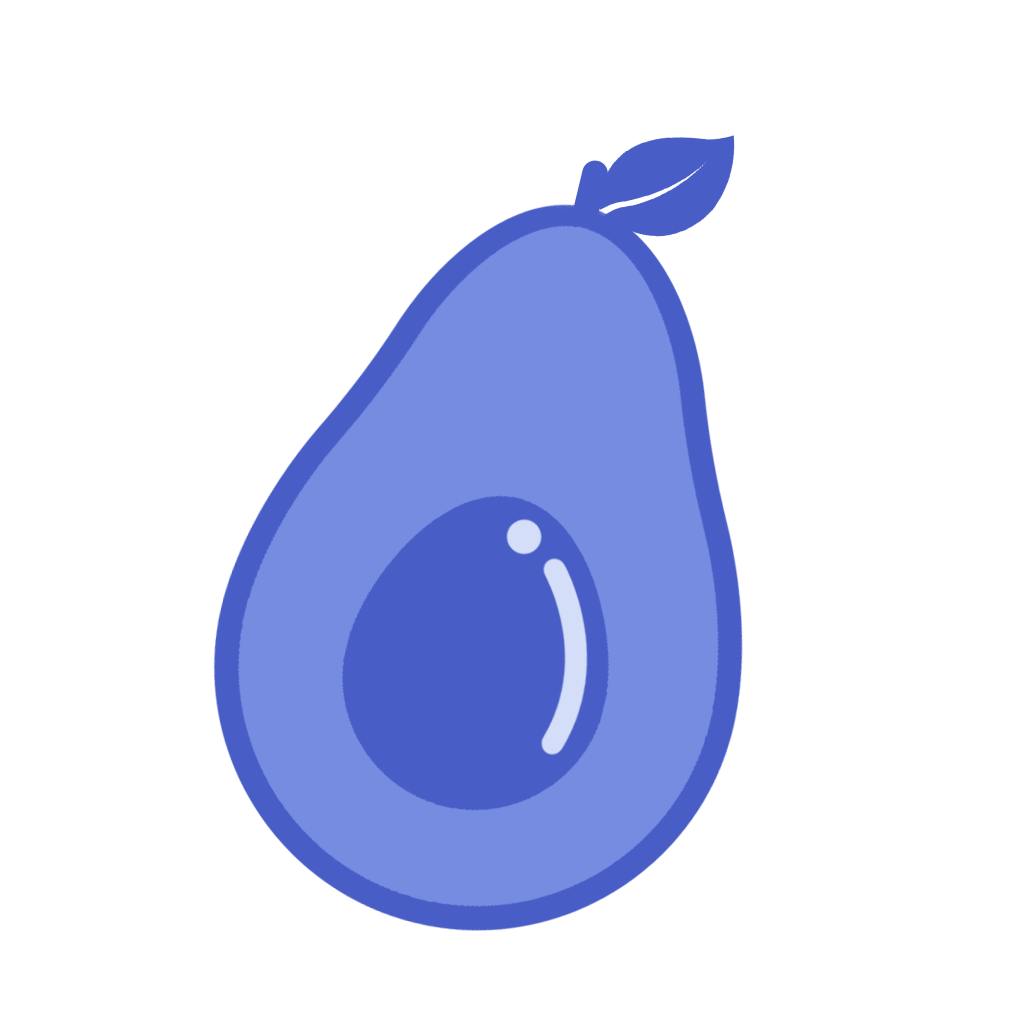
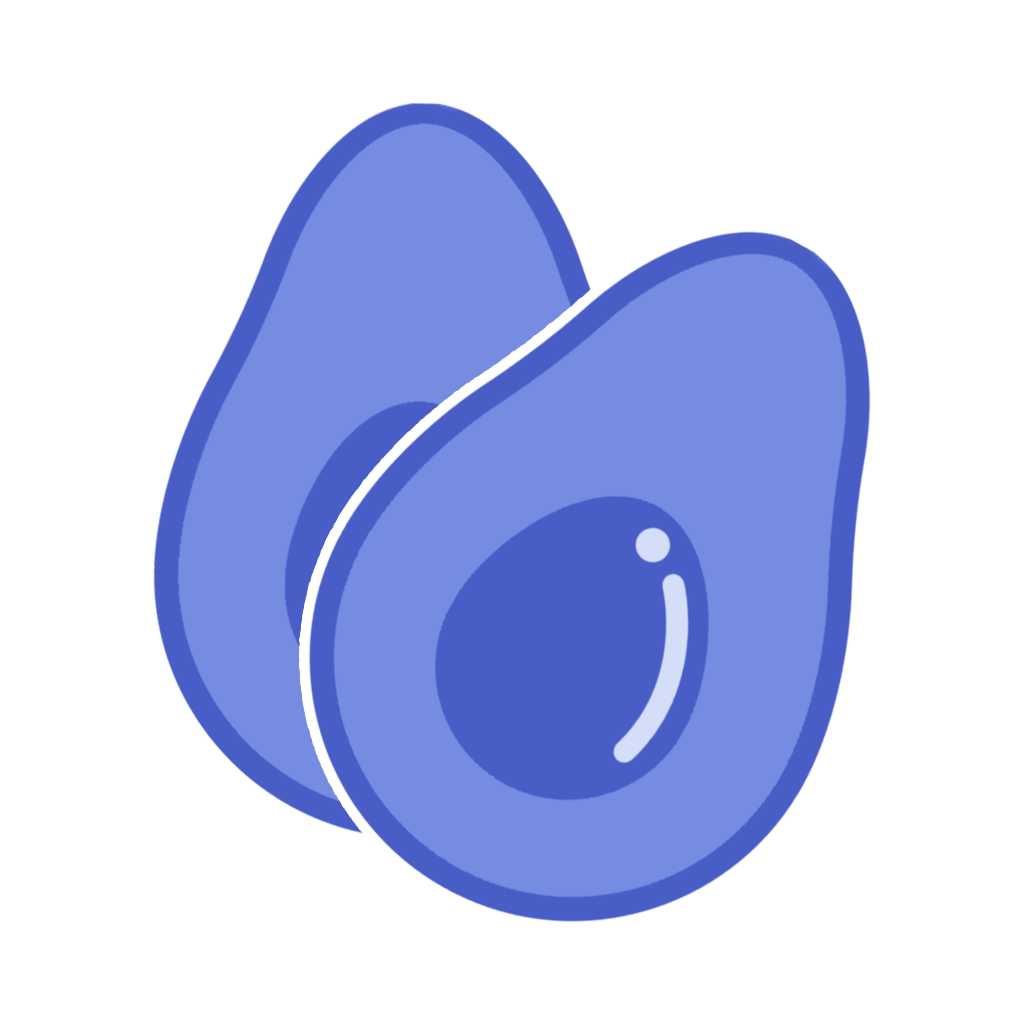
refactor: create event from home screen, new images

diff --git a/screens/HomeScreen.js b/screens/HomeScreen.js
@@ -1,17 +1,45 @@
 import React, { useState, useEffect } from "react";
-import { ScrollView, StyleSheet, View, Text } from "react-native";
+import {
+  ScrollView,
+  StyleSheet,
+  View,
+  Text,
+  TouchableOpacity
+} from "react-native";
 import { Auth, API, graphqlOperation } from "aws-amplify";
 import LottieView from "lottie-react-native";
 import getTime from "date-fns/getTime";
 import startOfDay from "date-fns/startOfDay";
 import { SafeAreaView } from "react-navigation";
+import styled from "@emotion/native";
 
 import Colors from "../constants/Colors";
 import EventCard from "../components/EventCard";
 import { listEvents } from "../graphql/queries";
 import { onCreateEvent } from "../graphql/subscriptions";
 
+const NoUpcomingEventsContainer = styled.View`
+  flex: 1;
+  padding: 24px;
+  justify-content: center;
+  align-items: center;
+`;
+
+const NoUpcomingEventsTitle = styled.Text`
+  font-family: "overpass-black";
+  font-size: 24px;
+  color: ${Colors.text};
+`;
+
+const CreateEventButton = styled.TouchableOpacity`
+  background-color: ${Colors.primary["500"]};
+  padding: 8px;
+  margin: 4px;
+  border-radius: 4px;
+`;
+
 export default function HomeScreen({ navigation }) {
+  const [loaded, setLoaded] = useState(false);
   const [events, setEvents] = useState([]);
   const [sortedEvents, setSortedEvents] = useState([]);
 
@@ -29,7 +57,9 @@ export default function HomeScreen({ navigation }) {
       })
     )
       .then(result => {
-        setEvents(result.data.listEvents.items);
+        const events = result.data.listEvents.items;
+        setEvents(events);
+        setLoaded(true);
       })
       .catch(error => console.log(error));
   }, []);
@@ -60,7 +90,6 @@ export default function HomeScreen({ navigation }) {
       if (a.dates.start > b.dates.start) return 1;
       return 0;
     });
-
     setSortedEvents(sortedEvents);
   }, [events, setEvents, setSortedEvents]);
 
@@ -76,7 +105,7 @@ export default function HomeScreen({ navigation }) {
       ]}
     >
       <View style={styles.container}>
-        {!sortedEvents.length && (
+        {!sortedEvents.length && !loaded && (
           <View
             style={{
               flex: 1,
@@ -91,6 +120,25 @@ export default function HomeScreen({ navigation }) {
               source={require("../assets/lottie/lottie-events-loading.json")}
             />
           </View>
+        )}
+        {!sortedEvents.length && loaded && (
+          <NoUpcomingEventsContainer>
+            <NoUpcomingEventsTitle>No upcoming events!</NoUpcomingEventsTitle>
+
+            <CreateEventButton
+              activeOpacity={0.6}
+              onPress={() => navigation.navigate("CreateEvent")}
+            >
+              <Text
+                style={{
+                  fontFamily: "overpass-black",
+                  color: Colors.grey["0"]
+                }}
+              >
+                Create Event
+              </Text>
+            </CreateEventButton>
+          </NoUpcomingEventsContainer>
         )}
         {!!sortedEvents.length && (
           <ScrollView

diff --git a/navigation/MainTabNavigator.js b/navigation/MainTabNavigator.js
@@ -22,7 +22,8 @@ const config = Platform.select({
 const HomeStack = createStackNavigator(
   {
     Home: HomeScreen,
-    EventDetail: EventDetailScreen
+    EventDetail: EventDetailScreen,
+    CreateEvent: CreateEventScreen
   },
   config
 );
@@ -88,7 +89,7 @@ const tabNavigator = createBottomTabNavigator(
     SettingsStack
   },
   {
-    initialRouteName: "EventsStack",
+    initialRouteName: "HomeStack",
     tabBarOptions: {
       activeTintColor: Colors.tabIconSelected,
       inactiveTintColor: Colors.tabIconDefault,

diff --git a/screens/EventsScreen.js b/screens/EventsScreen.js
@@ -141,10 +141,6 @@ export default function EventsScreen({ navigation }) {
     renderItem(item, isFirstItem, navigation)
   );
 
-  // activeMonth controlled by agenda component
-  // fetch events for time frame
-  // add to calendar days
-  // set calendar selected date
   useEffect(() => {
     const getDaysForMonth = async () => {
       const today = new Date();
